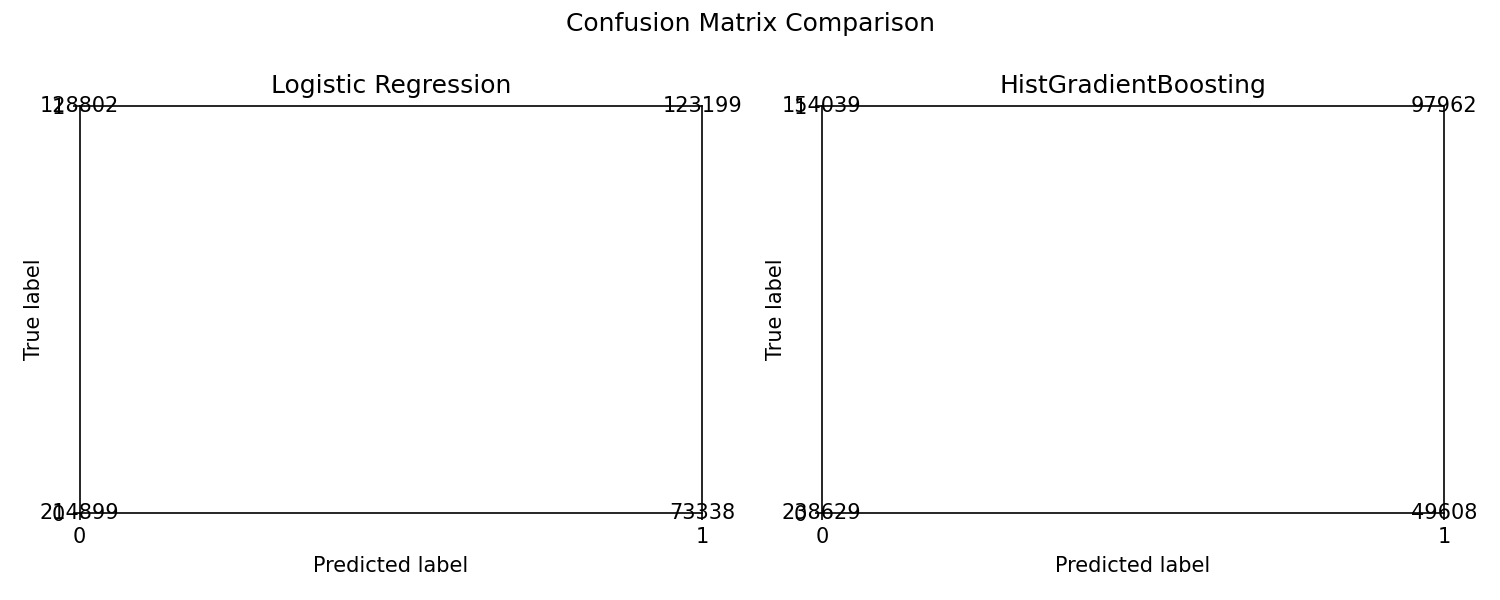
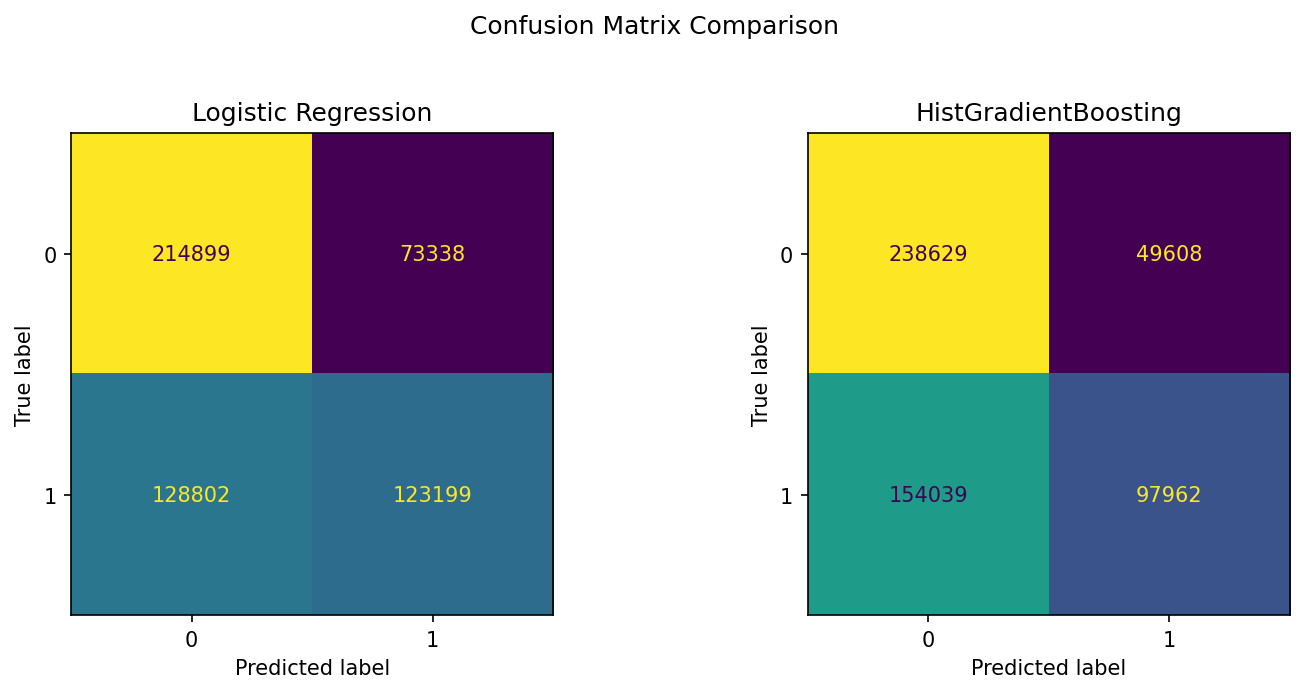
Bug fixing confusion matrix plotting

diff --git a/microalpha/evaluation.py b/microalpha/evaluation.py
@@ -6,6 +6,7 @@ from pathlib import Path
 import matplotlib.pyplot as plt
 import numpy as np
 from sklearn.metrics import (
+    ConfusionMatrixDisplay,
     accuracy_score,
     auc,
     confusion_matrix,
@@ -213,31 +214,30 @@ def plot_confusion_matrix_comparison(
     hist_gbdt_result: EvaluationResult,
     out_path: Path,
 ) -> None:
-    fig, axes = plt.subplots(1, 2, figsize=(10, 4))
+    fig, axes = plt.subplots(1, 2, figsize=(10, 4.5))
 
-    cm_log = logistic_result.confusion_matrix
-    axes[0].set_title("Logistic Regression")
-    axes[0].set_xlabel("Predicted label")
-    axes[0].set_ylabel("True label")
-    axes[0].set_xticks([0, 1])
-    axes[0].set_yticks([0, 1])
-    for i in range(cm_log.shape[0]):
-        for j in range(cm_log.shape[1]):
-            axes[0].text(j, i, str(cm_log[i, j]), ha="center", va="center")
+    plots = [
+        (axes[0], logistic_result, "Logistic Regression"),
+        (axes[1], hist_gbdt_result, "HistGradientBoosting"),
+    ]
 
-    cm_gbdt = hist_gbdt_result.confusion_matrix
-    axes[1].set_title("HistGradientBoosting")
-    axes[1].set_xlabel("Predicted label")
-    axes[1].set_ylabel("True label")
-    axes[1].set_xticks([0, 1])
-    axes[1].set_yticks([0, 1])
-    for i in range(cm_gbdt.shape[0]):
-        for j in range(cm_gbdt.shape[1]):
-            axes[1].text(j, i, str(cm_gbdt[i, j]), ha="center", va="center")
+    for ax, result, title in plots:
+        display = ConfusionMatrixDisplay(
+            confusion_matrix=result.confusion_matrix,
+            display_labels=[0, 1],
+        )
+        display.plot(
+            ax=ax,
+            values_format="d",
+            colorbar=False,
+        )
+        ax.set_title(title)
+        ax.set_xlabel("Predicted label")
+        ax.set_ylabel("True label")
 
-    fig.suptitle("Confusion Matrix Comparison")
+    fig.suptitle("Confusion Matrix Comparison", y=1.02)
     fig.tight_layout()
-    fig.savefig(out_path, dpi=150)
+    fig.savefig(out_path, dpi=150, bbox_inches="tight")
     plt.close(fig)
 
 
